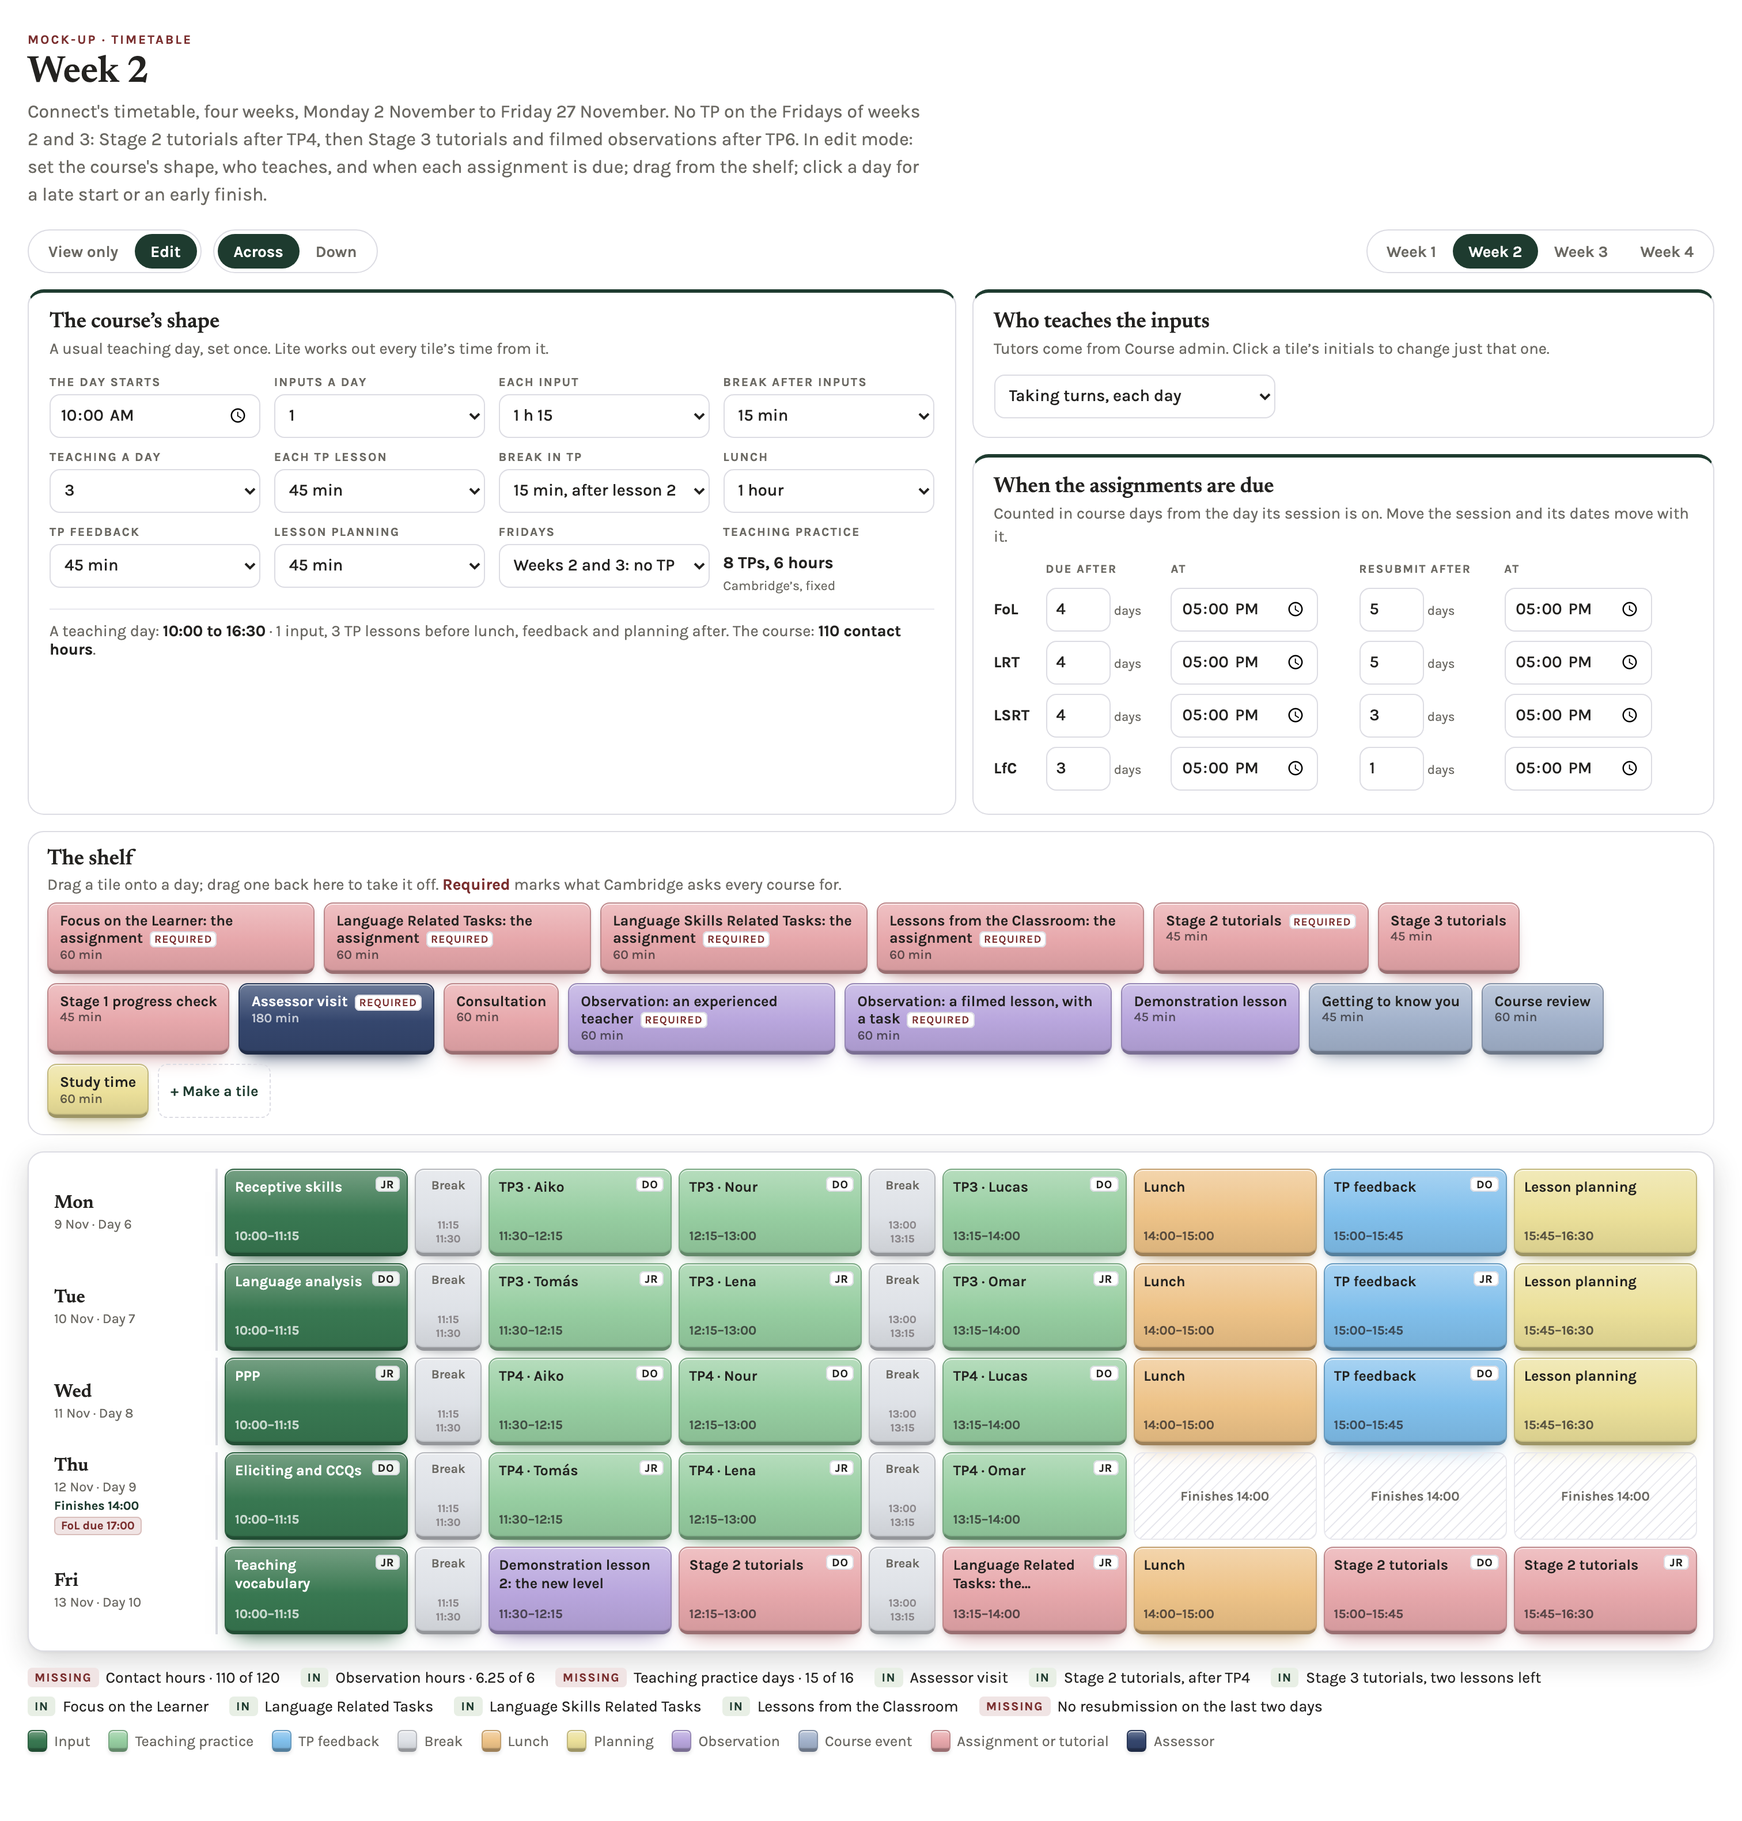
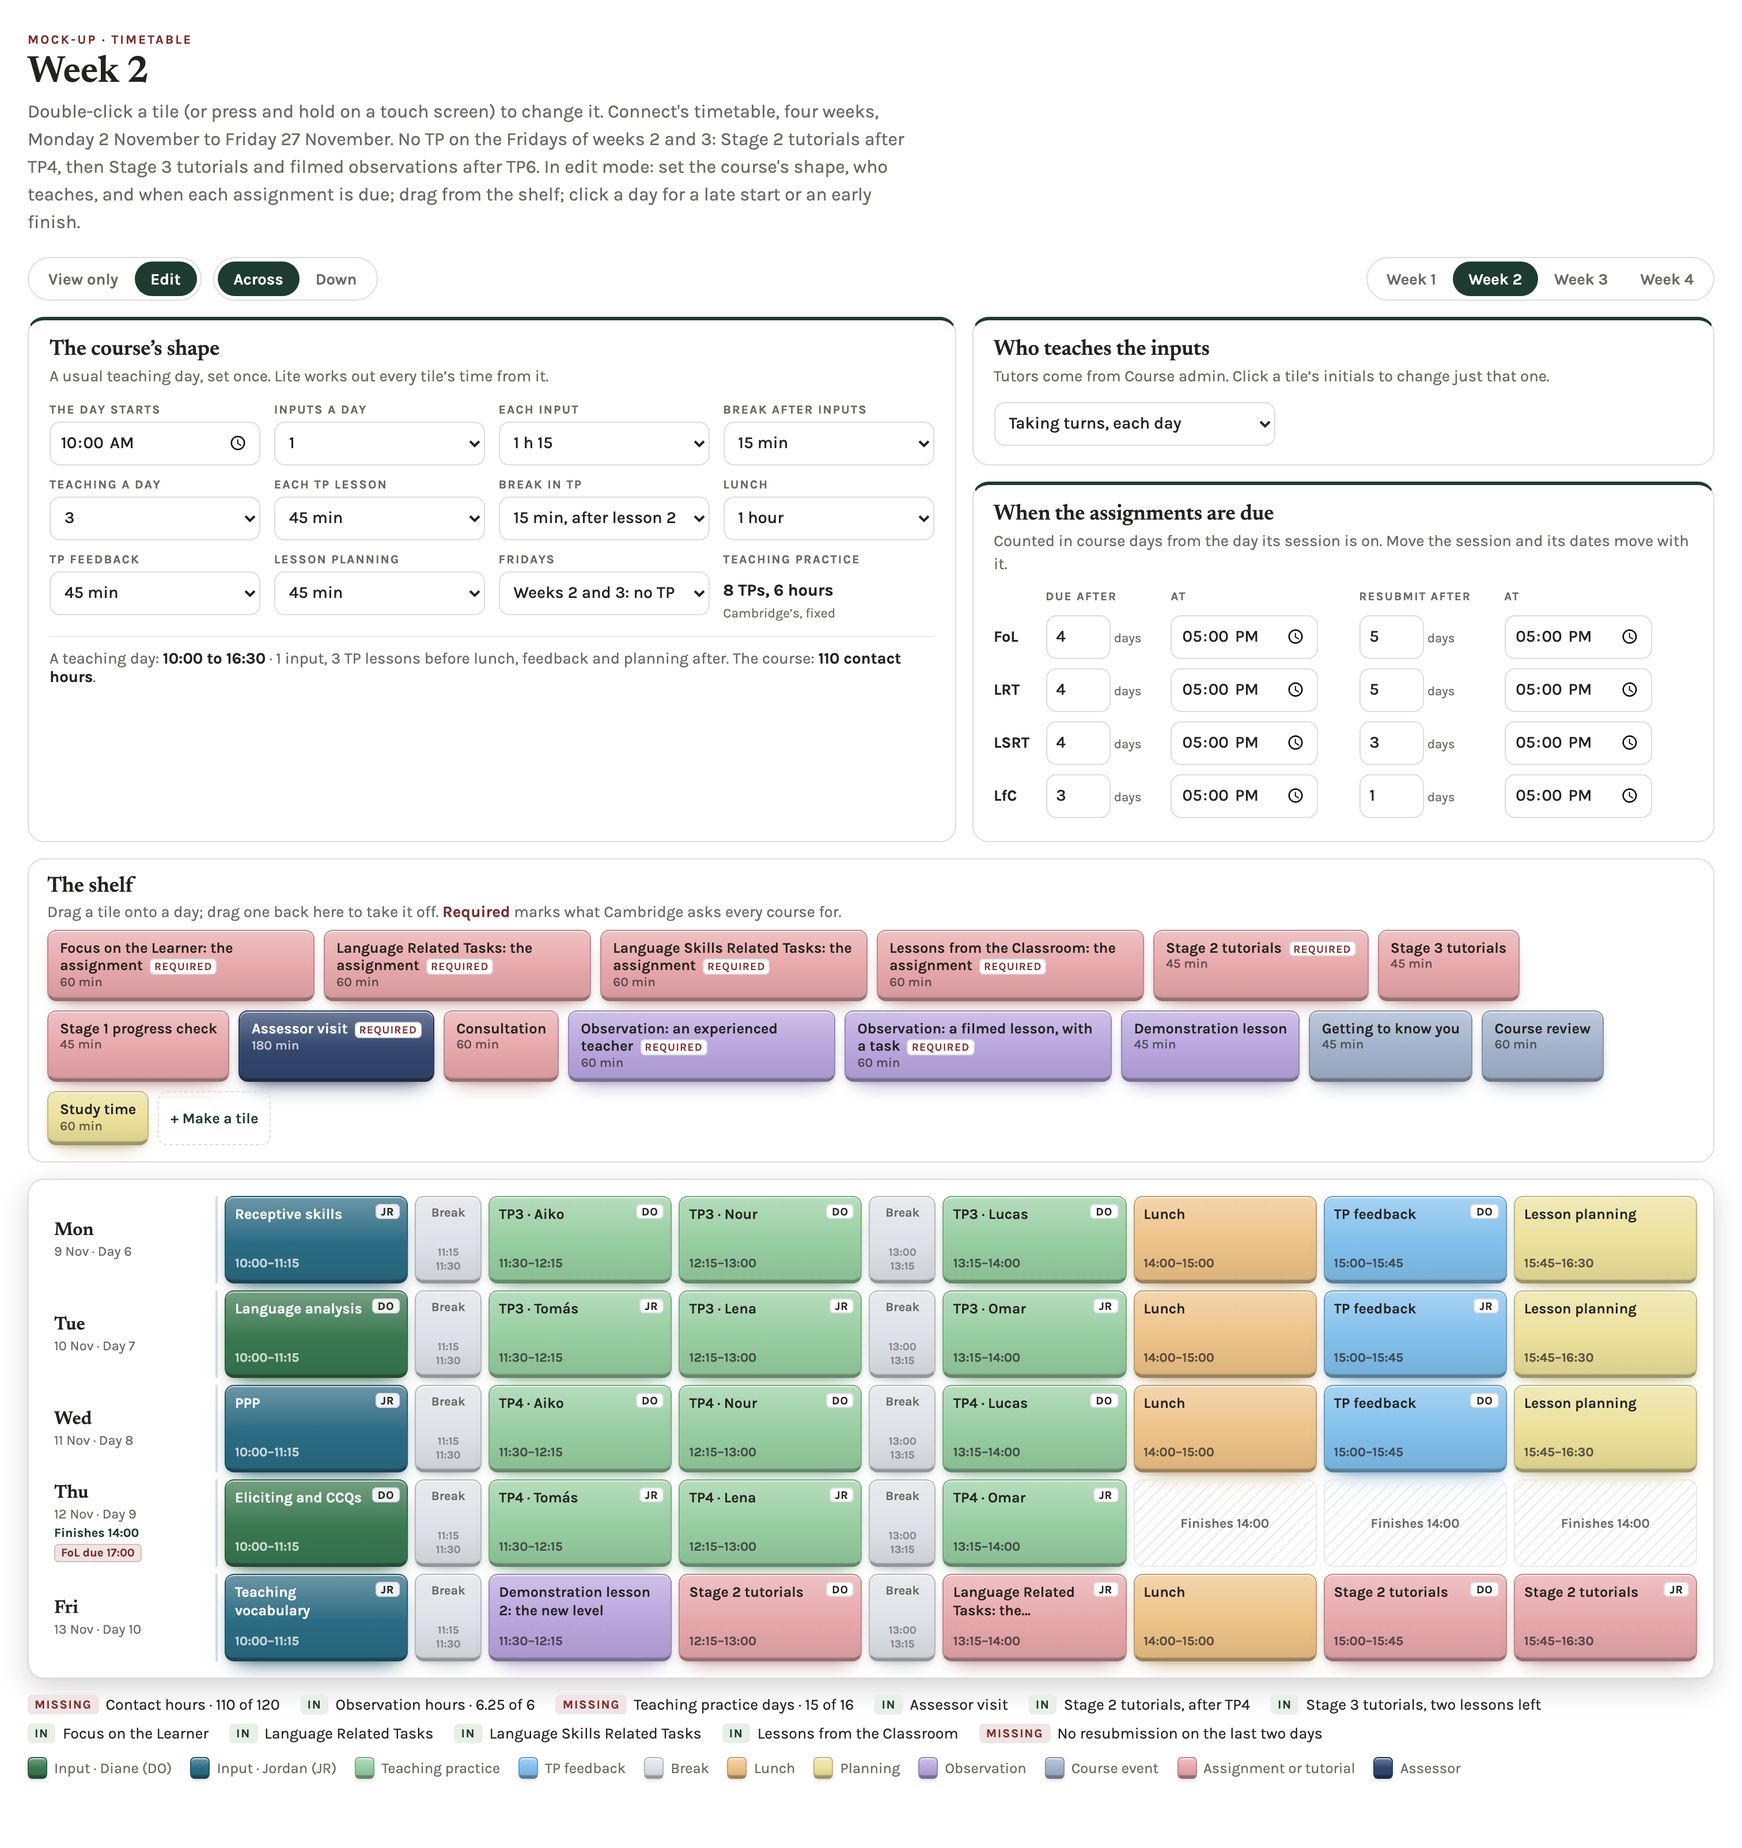
Timetable mock-up: change a tile, and choose who goes with a swap (Ramy, 29 Oct 2026). Double-click a tile (press and hold half a second on a touch screen) to change its title, tutor, kind, start and length, or take it off; for an input, a line says which of Connect's sessions the title opens, by th

Changed region(s): [[0.0311, 0.4652, 0.9947, 0.9614], [0.0, 0.031, 0.9947, 0.4342]]

diff --git a/docs/mockups/timetable-whole.html b/docs/mockups/timetable-whole.html
@@ -11,6 +11,7 @@
 <title>Timetable — mock-up</title>
 <link href="https://fonts.googleapis.com/css2?family=Newsreader:opsz,wght@6..72,500;6..72,600&family=Karla:wght@400;500;600;700&display=swap" rel="stylesheet">
 <link rel="stylesheet" href="../../hub-tokens.css">
+<script src="../../input-sessions/library.js"></script>
 <style>
   body{margin:0; background:var(--paper); color:var(--ink); font-family:Karla,sans-serif;}
   .wrap{max-width:1480px; margin:0 auto; padding:28px 24px 60px;}
@@ -100,6 +101,8 @@
      not patchy"). Each kind has one colour, --c; the tile is lit from above (lighter top, deeper bottom), stands on a
      darker edge, and casts a soft shadow in its own colour. It rises under the pointer and sinks when it is picked up. */
   .k-input{--c:oklch(52% 0.09 155); --on:var(--paper);}
+  /* each tutor's own shade on their input sessions (Course admin's tutors' colours) */
+  .k-input.t-DO{--c:oklch(52% 0.09 155);} .k-input.t-JR{--c:oklch(50% 0.075 225);}
   .k-tp{--c:oklch(80% 0.085 150);}
   .k-feedback{--c:oklch(78% 0.09 240);}
   .k-break{--c:oklch(91% 0.008 260); --on:var(--grey);}
@@ -127,9 +130,17 @@
 
   .pop{position:absolute; z-index:20; background:var(--card); border:1px solid var(--sand-line); border-radius:12px; box-shadow:0 10px 30px var(--shade-far); padding:6px; min-width:200px;}
   .pop button{display:block; width:100%; text-align:left; border:0; background:none; padding:8px 10px; border-radius:8px; font:500 .86rem Karla,sans-serif; color:var(--ink); cursor:pointer;}
+  .pop.edit{width:310px; padding:12px 14px; display:grid; gap:10px;} .pop.edit .two{display:grid; grid-template-columns:1fr 1fr; gap:8px;}
+  .pop.edit .link{margin:-4px 0 0; font-size:.8rem; color:var(--grey);} .pop.edit .link b{color:var(--a-forest);}
+  .pop.edit .row2{display:flex; gap:12px; align-items:center;} .pop.edit .row2 button{width:auto; display:inline-block;}
+  .pop.edit button.q{background:none; padding:0; font-weight:700; text-decoration:underline; color:var(--grey);} .pop.edit button.q.red{color:var(--a-red); margin-left:auto;}
+  .pop.edit .btn{background:var(--a-forest); color:var(--paper); padding:9px 18px; border-radius:999px;} .pop.edit .btn:hover{background:var(--a-forest-2);}
   .pop button:hover{background:var(--sand-deep);} .pop button.on{font-weight:700;}
   .pop .ph{font-size:.66rem; letter-spacing:.1em; text-transform:uppercase; font-weight:700; color:var(--grey); padding:6px 10px 2px;}
 
+  .swapbar{display:flex; flex-wrap:wrap; gap:8px 14px; align-items:center; margin:12px 0 0; padding:10px 14px; background:var(--card); border:1px solid var(--sand-line); border-left:4px solid var(--a-mustard); border-radius:var(--r-strip); font-size:.88rem; box-shadow:0 6px 18px var(--shade-far);}
+  .swapbar[hidden]{display:none;}
+  .swapbar button{border:0; background:none; font:700 .86rem Karla,sans-serif; color:var(--a-forest); text-decoration:underline; cursor:pointer; padding:0;}
   .checks{display:flex; flex-wrap:wrap; gap:8px 18px; margin:14px 0 0; font-size:.84rem;}
   .checks span{display:inline-flex; gap:6px; align-items:center;}
   .checks b{font-size:.66rem; letter-spacing:.08em; text-transform:uppercase; padding:2px 6px; border-radius:4px;}
@@ -145,7 +156,7 @@
 <div class="wrap" id="root">
   <p class="eyebrow">Mock-up · Timetable</p>
   <h1 id="title">Week 1</h1>
-  <p class="lede">Connect's timetable, four weeks, Monday 2 November to Friday 27 November. No TP on the Fridays of weeks 2 and 3: Stage 2 tutorials after TP4, then Stage 3 tutorials and filmed observations after TP6. In edit mode: set the course's shape, who teaches, and when each assignment is due; drag from the shelf; click a day for a late start or an early finish.</p>
+  <p class="lede">Double-click a tile (or press and hold on a touch screen) to change it. Connect's timetable, four weeks, Monday 2 November to Friday 27 November. No TP on the Fridays of weeks 2 and 3: Stage 2 tutorials after TP4, then Stage 3 tutorials and filmed observations after TP6. In edit mode: set the course's shape, who teaches, and when each assignment is due; drag from the shelf; click a day for a late start or an early finish.</p>
   <div class="bar">
     <div class="seg" id="mode"><button data-v="view" class="on">View only</button><button data-v="edit">Edit</button></div>
     <div class="seg" id="lay"><button data-v="across" class="on">Across</button><button data-v="down">Down</button></div>
@@ -200,6 +211,7 @@
   </section>
 
   <div class="scroller"><div class="grid across" id="grid"></div></div>
+  <div class="swapbar" id="swapbar" hidden></div>
   <div class="checks" id="checks"></div>
   <div class="key" id="key"></div>
 </div>
@@ -345,10 +357,19 @@
     if (!x) el.className = 'cell empty';
     else {
       var showT = true;
-      el.className = 'cell k-' + x.k + (x.by ? ' has-who' : '') + (mins(BAR[c][1]) - mins(BAR[c][0]) <= 15 ? ' slim' : '');
+      el.className = 'cell k-' + x.k + (x.k === 'input' && x.by ? ' t-' + x.by : '') + (x.by ? ' has-who' : '') + (mins(BAR[c][1]) - mins(BAR[c][0]) <= 15 ? ' slim' : '');
       el.innerHTML = '<span class="t">' + esc(x.t) + (x.me ? ' <span class="me">' + x.me + '</span>' : '') + '</span>' + (x.by ? '<button class="who" type="button">' + x.by + '</button>' : '') + (showT ? '<span class="tm">' + x.s + (mins(BAR[c][1]) - mins(BAR[c][0]) <= 15 && lay === 'across' ? '<br>' : '–') + x.e + '</span>' : '');
       el.title = KINDS[x.k] + ': ' + x.t + (x.me ? ', trainee ' + x.me : '') + (x.by ? ', ' + (x.by === 'DO' ? 'Diane Okonkwo' : 'Jordan Reyes') : '') + ', ' + x.s + ' to ' + x.e;
       if (mode === 'edit' && x.by) el.querySelector('.who').addEventListener('click', function(e){ e.stopPropagation(); x.by = x.by === 'DO' ? 'JR' : 'DO'; render(); });
+      /* CHANGE A TILE (Ramy, 29 Oct 2026: "change the title of one of these inputs ... press and hold"): double-click on a
+         laptop, as in a spreadsheet; press and hold for half a second on a touch screen */
+      if (mode === 'edit') {
+        el.addEventListener('dblclick', function(e){ if (!e.target.closest('.who')) editTile(el, r, c); });
+        var hold = null, sx = 0, sy = 0;
+        el.addEventListener('pointerdown', function(e){ if (e.pointerType === 'mouse') return; sx = e.clientX; sy = e.clientY; hold = setTimeout(function(){ editTile(el, r, c); }, 500); });
+        el.addEventListener('pointermove', function(e){ if (hold && Math.hypot(e.clientX - sx, e.clientY - sy) > 8) { clearTimeout(hold); hold = null; } });
+        el.addEventListener('pointerup', function(){ clearTimeout(hold); hold = null; });
+      }
     }
     if (mode === 'edit') {
       el.draggable = !!x;
@@ -356,11 +377,56 @@
       el.addEventListener('dragover', function(e){ if (drag && drag.from !== 'flag') { e.preventDefault(); el.classList.add('over'); } });
       el.addEventListener('dragleave', function(){ el.classList.remove('over'); });
       el.addEventListener('drop', function(e){ e.preventDefault(); if (!drag) return;
-        if (drag.from === 'cell') { var a = CELLS[drag.r][drag.c], b = CELLS[r][c]; CELLS[r][c] = place(a, c); CELLS[drag.r][drag.c] = place(b, drag.c); }
+        if (drag.from === 'cell') { var a = CELLS[drag.r][drag.c], b = CELLS[r][c]; CELLS[r][c] = place(a, c); CELLS[drag.r][drag.c] = place(b, drag.c); if (a && b && a.by && b.by && a.by !== b.by) offer({ r1: drag.r, c1: drag.c, r2: r, c2: c, a: a, b: b }); }
         else if (drag.from === 'shelf') { var it = SHELF[drag.i], o = { k: it.k, t: it.t, asg: it.asg, s: BAR[c][0], e: hm(mins(BAR[c][0]) + it.len) }; if (it.k !== 'assessor' && it.k !== 'event') o.by = 'DO'; CELLS[r][c] = o; }
         drag = null; render(); });
     }
     return el;
+  }
+  /* the library's sessions, for the title box and the line that says which page a title opens */
+  var LIB = ['Course introduction','Classroom management','Lesson frameworks','Writing the lesson plan','Receptive skills','Language analysis','PPP','Eliciting and CCQs','Teaching vocabulary','Teaching one-to-one','Phonology: sounds','Text-based teaching','Guided discovery vs PPP','Error correction','Word and sentence stress','Teaching speaking','Connected speech','Functional language','Teaching productive skills','Guided to less-guided practice','Teaching writing','Teaching literacy','Teaching exam classes','Alternative teaching techniques','Drama in the ELT classroom','Life after CELTA'];
+  /* the same rules the library uses on the real site (input-sessions/library.js), so the line says what Lite will do */
+  function libFor(t){ var sl = (window.InputLib && InputLib.slugsFor(t)) || []; if (!sl.length) return ''; return sl.map(function(x){ return x.split('-').map(function(w, i){ return i ? w : w.charAt(0).toUpperCase() + w.slice(1); }).join(' '); }).join(' and '); }
+  function editTile(anchor, r, c){
+    closePop(); var x = CELLS[r][c]; if (!x) return;
+    var len = mins(x.e) - mins(x.s);
+    pop = document.createElement('div'); pop.className = 'pop edit';
+    pop.innerHTML = '<div class="ph">Change this tile</div>'
+      + '<label><span class="lab">Title</span><input type="text" id="edT" list="libList"></label><datalist id="libList">' + LIB.map(function(n){ return '<option value="' + esc(n) + '">'; }).join('') + '</datalist>'
+      + '<p class="link" id="edL"></p>'
+      + '<div class="two"><label><span class="lab">Tutor</span><select id="edB"><option value="">None</option><option value="DO">Diane (DO)</option><option value="JR">Jordan (JR)</option></select></label>'
+      + '<label><span class="lab">Kind</span><select id="edK">' + Object.keys(KINDS).map(function(k){ return '<option value="' + k + '">' + KINDS[k] + '</option>'; }).join('') + '</select></label></div>'
+      + '<div class="two"><label><span class="lab">Starts</span><input type="time" id="edS" step="300"></label>'
+      + '<label><span class="lab">Length</span><select id="edN">' + [15,30,45,60,75,90,120,150,180].map(function(m){ return '<option value="' + m + '">' + (m < 60 ? m + ' min' : Math.floor(m / 60) + ' h' + (m % 60 ? ' ' + (m % 60) : '')) + '</option>'; }).join('') + '</select></label></div>'
+      + '<div class="row2"><button class="btn" id="edSave">Save</button><button type="button" class="q" id="edCancel">Cancel</button><button type="button" class="q red" id="edDel">Take it off</button></div>';
+    document.body.appendChild(pop);
+    var b = anchor.getBoundingClientRect(), left = Math.min(b.left + scrollX, scrollX + innerWidth - 330); pop.style.left = Math.max(8, left) + 'px'; pop.style.top = (b.bottom + scrollY + 6) + 'px';
+    var T = pop.querySelector('#edT'), L = pop.querySelector('#edL'), K = pop.querySelector('#edK');
+    T.value = x.t; pop.querySelector('#edB').value = x.by || ''; K.value = x.k; pop.querySelector('#edS').value = x.s; pop.querySelector('#edN').value = String(len);
+    function link(){ if (K.value !== 'input') { L.textContent = ''; return; } var m = libFor(T.value); L.innerHTML = m ? 'Opens Connect&rsquo;s session: <b>' + esc(m) + '</b>' : 'Your own session: no page in the library'; }
+    T.addEventListener('input', link); K.addEventListener('change', link); link(); T.focus(); T.select();
+    pop.querySelector('#edSave').addEventListener('click', function(){
+      var st = pop.querySelector('#edS').value, n = +pop.querySelector('#edN').value, by = pop.querySelector('#edB').value;
+      CELLS[r][c] = Object.assign({}, x, { t: T.value.trim() || x.t, k: K.value, s: st, e: hm(mins(st) + n), by: by || undefined }); closePop(); render();
+    });
+    pop.querySelector('#edCancel').addEventListener('click', closePop);
+    pop.querySelector('#edDel').addEventListener('click', function(){ CELLS[r][c] = null; closePop(); render(); });
+  }
+  /* AFTER A SWAP OF TWO TUTORS' SESSIONS (Ramy, 29 Oct 2026: "sometimes change the input but leave the trainer, and
+     sometimes change the trainers and the input"): by default each session takes its tutor with it; one click keeps
+     each tutor on their own day instead (initials and colour follow), or undoes the swap. */
+  var swapT = null;
+  function offer(w){
+    var bar = document.getElementById('swapbar'), A = w.a, B = w.b;
+    function nm(x){ return esc(x.t) + ' (' + x.by + ')'; }
+    bar.innerHTML = '<span><b>Swapped</b> ' + nm(A) + ' and ' + nm(B) + '. Each kept its tutor.</span><button type="button" data-a="keep">Keep each tutor on their day instead</button><button type="button" data-a="undo">Undo</button>';
+    bar.hidden = false; clearTimeout(swapT); swapT = setTimeout(function(){ bar.hidden = true; }, 12000);
+    bar.onclick = function(e){
+      var t = e.target.closest('button'); if (!t) return;
+      if (t.dataset.a === 'keep') { CELLS[w.r2][w.c2].by = B.by; CELLS[w.r1][w.c1].by = A.by; bar.innerHTML = '<span><b>Swapped the sessions;</b> each tutor kept their day.</span>'; }
+      if (t.dataset.a === 'undo') { CELLS[w.r1][w.c1] = A; CELLS[w.r2][w.c2] = B; bar.innerHTML = '<span>Put back as it was.</span>'; }
+      clearTimeout(swapT); swapT = setTimeout(function(){ bar.hidden = true; }, 3000); render();
+    };
   }
   /* a tile moved keeps its length; it starts where it lands */
   function place(x, c){ if (!x) return null; var o = Object.assign({}, x), len = mins(x.e) - mins(x.s); o.s = BAR[c][0]; o.e = hm(mins(o.s) + len); return o; }
@@ -389,7 +455,7 @@
     pop.addEventListener('click', function(e){ var t = e.target.closest('button'); if (!t) return; if (t.dataset.m) MOD[r] = t.dataset.m; else delete MOD[r]; closePop(); render(); });
   }
   function closePop(){ if (pop) { pop.remove(); pop = null; } }
-  document.addEventListener('click', function(e){ if (pop && !e.target.closest('.pop') && !e.target.closest('.day')) closePop(); });
+  document.addEventListener('click', function(e){ if (pop && !e.target.closest('.pop') && !e.target.closest('.day') && !e.target.closest('.cell')) closePop(); });
 
   function render(){
     closePop();
@@ -452,7 +518,7 @@
   seg('mode', function(x){ mode = x; }); seg('lay', function(x){ lay = x; }); seg('weeks', function(x){ week = +x; });
   document.querySelectorAll('.setup .f select, .setup .f input, #tutMode, #tutFrom').forEach(function(e){ e.addEventListener('change', function(){ document.getElementById('tutFrom').style.display = document.getElementById('tutMode').value === 'split' ? '' : 'none'; build(); render(); }); });
   document.getElementById('tutFrom').style.display = 'none';
-  document.getElementById('key').innerHTML = Object.keys(KINDS).map(function(k){ return '<span><i class="k-' + k + '"></i>' + KINDS[k] + '</span>'; }).join('');
+  document.getElementById('key').innerHTML = '<span><i class="k-input t-DO"></i>Input · Diane (DO)</span><span><i class="k-input t-JR"></i>Input · Jordan (JR)</span>' + Object.keys(KINDS).filter(function(k){ return k !== 'input'; }).map(function(k){ return '<span><i class="k-' + k + '"></i>' + KINDS[k] + '</span>'; }).join('');
   build(); render();
 })();
 </script>
